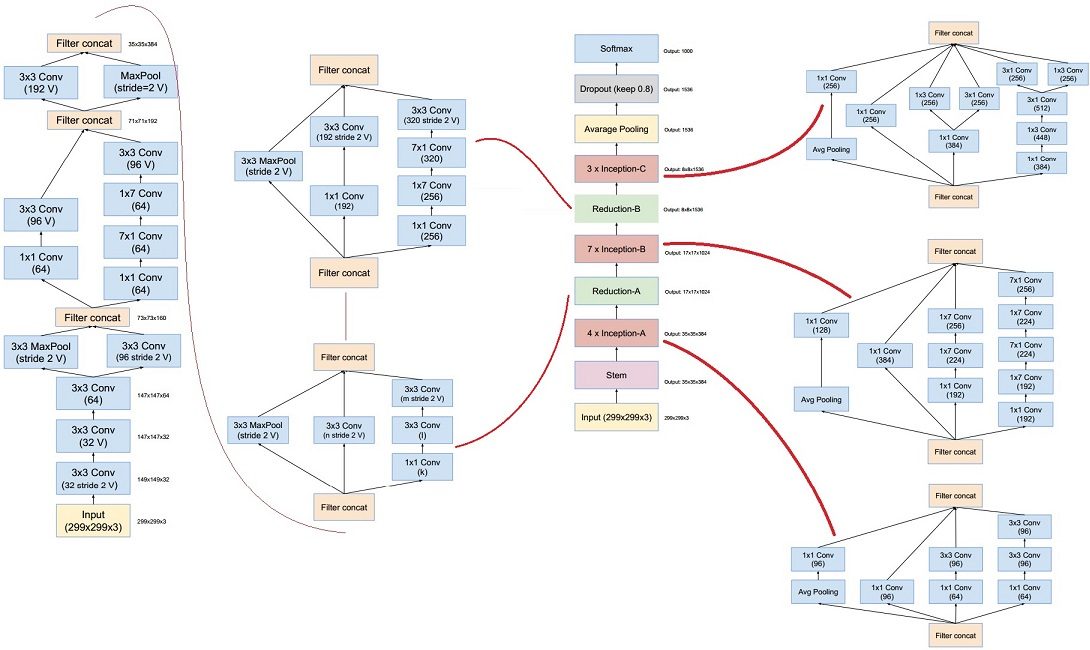
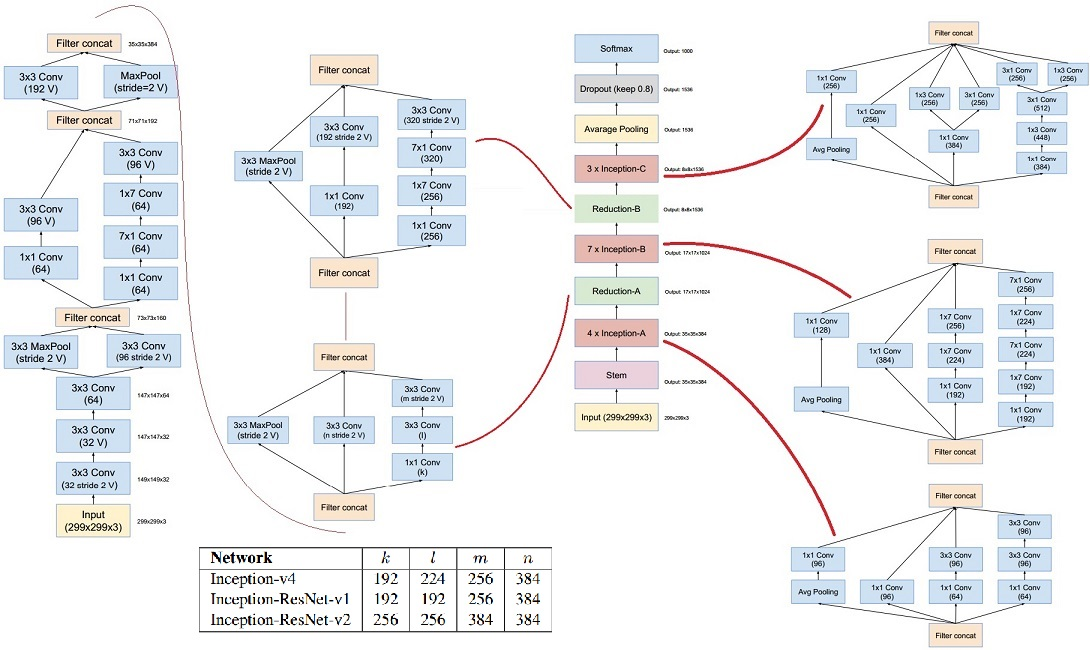
Site updated: 2016-09-30 14:29:22

Changed region(s): [[0.1872, 0.8308, 0.4991, 0.9846]]

diff --git a/2016/08/31/A-reminder-of-algorithms-in-Convolutional-Neural-Networks-and-their-influences-III/index.html b/2016/08/31/A-reminder-of-algorithms-in-Convolutional-Neural-Networks-and-their-influences-III/index.html
@@ -15,10 +15,10 @@
 <meta property="og:image" content="http://yeephycho.github.io/blog_img/deconv.JPG">
 <meta property="og:image" content="http://yeephycho.github.io/blog_img/VGG.JPG">
 <meta property="og:image" content="http://yeephycho.github.io/blog_img/Inception_v4.jpg">
-<meta property="og:image" content="http://yeephycho.github.io/blog_img/deconv.JPG">
+<meta property="og:image" content="http://yeephycho.github.io/blog_img/Inception_ResNet_v2.JPG">
 <meta property="og:image" content="http://yeephycho.github.io/blog_img/license.jpg">
 <meta property="og:image" content="http://yeephycho.github.io/blog_img/APACHE.jpg">
-<meta property="og:updated_time" content="2016-09-30T05:38:55.836Z">
+<meta property="og:updated_time" content="2016-09-30T06:07:29.097Z">
 <meta name="twitter:card" content="summary">
 <meta name="twitter:title" content="A Note to Techniques in Convolutional Neural Networks and Their Influences III (paper summary)">
 <meta name="twitter:description" content="Since we have already got some bases on how CNN works, so this post I prefer to focus more on the ideologies that make these architectures unique and the general technics that can improve the performa">
@@ -231,8 +231,8 @@
 <h2 id="Comments"><a href="#Comments" class="headerlink" title="Comments"></a>Comments</h2><p>From my experience, VGGNet is a structure that is very suitable to verify your idea. It is relativly easy to generalize to different scenario. The drawback of this architecture is that its space compleity is too large. There are many structures that has a smaller size and better performance such as Inceptions.</p>
 <h2 id="Inception-v4-Inception-ResNet"><a href="#Inception-v4-Inception-ResNet" class="headerlink" title="Inception-v4, Inception-ResNet"></a><strong>Inception-v4, Inception-ResNet</strong></h2><p>Related paper is: <a href="http://arxiv.org/pdf/1602.07261v2.pdf" target="_blank" rel="external">Inception-v4, Inception-ResNet and the Impact of Residual Connections on Learning</a>, published on Aug. 2016 by Google.</p>
 <h2 id="Achievement-2"><a href="#Achievement-2" class="headerlink" title="Achievement"></a>Achievement</h2><p>With an ensemble of three residual and one Inception-v4, achieve 3.08% top-5 error on the test set of the 2012 ImageNet classification challenge.</p>
-<h2 id="Inception-v4"><a href="#Inception-v4" class="headerlink" title="Inception-v4"></a>Inception-v4</h2><p>Inception-v4 is a deepr and wider Inception network. Comparing to Inception-v3, it has more inception modules.<div align="center"><br><img src="http://yeephycho.github.io/blog_img/Inception_v4.jpg" alt="Inception-v4 architecture"><br></div></p>
-<h2 id="Inception-ResNet"><a href="#Inception-ResNet" class="headerlink" title="Inception-ResNet"></a>Inception-ResNet</h2><p>Inception-ResNet is a hybird of Inception net and Residual net. Currently, Inception-ResNet-4 is the state-of-the-art network structure on ImageNet dataset.<div align="center"><br><img src="http://yeephycho.github.io/blog_img/deconv.JPG" alt="Inception-ResNet-v2 architecture"><br></div></p>
+<h2 id="Inception-v4"><a href="#Inception-v4" class="headerlink" title="Inception-v4"></a>Inception-v4</h2><p>Inception-v4 is a deepr and wider Inception network. Comparing to Inception-v3, it has more inception modules.<div align="center"><br><img src="http://yeephycho.github.io/blog_img/Inception_v4.jpg" alt="Inception-v4 architecture"><br></div><br>More clear image can be found <a href="http://yeephycho.github.io/blog_img/Inception_v4_hires.jpg">here</a>.</p>
+<h2 id="Inception-ResNet"><a href="#Inception-ResNet" class="headerlink" title="Inception-ResNet"></a>Inception-ResNet</h2><p>Inception-ResNet is a hybird of Inception net and Residual net. Currently, Inception-ResNet-4 is the state-of-the-art network structure on ImageNet dataset.<div align="center"><br><img src="http://yeephycho.github.io/blog_img/Inception_ResNet_v2.JPG" alt="Inception-ResNet-v2 architecture"><br></div></p>
 <p><br></p>
 <h2 id="License"><a href="#License" class="headerlink" title="License"></a>License</h2><div align="center"><br>The content of this blog itself is licensed under the <a href="https://creativecommons.org/licenses/by-sa/4.0/" target="_blank" rel="external">Creative Commons Attribution 4.0 International License</a>.<br><img src="http://yeephycho.github.io/blog_img/license.jpg" alt="CC-BY-SA LICENCES"><br><br>The containing source code (if applicable) and the source code used to format and display that content is licensed under the <a href="http://www.apache.org/licenses/LICENSE-2.0" target="_blank" rel="external">Apache License 2.0</a>.<br><strong>Copyright [2016] [yeephycho]</strong><br>Licensed under the Apache License, Version 2.0 (the “License”);<br>you may not use this file except in compliance with the License.<br>You may obtain a copy of the License at<br><a href="http://www.apache.org/licenses/LICENSE-2.0" target="_blank" rel="external">Apache License 2.0</a><br>Unless required by applicable law or agreed to in writing, software<br>distributed under the License is distributed on an “AS IS” BASIS,<br>WITHOUT WARRANTIES OR CONDITIONS OF ANY KIND, either<br>express or implied. See the License for the specific language<br>governing permissions and limitations under the License.<br><img src="http://yeephycho.github.io/blog_img/APACHE.jpg" alt="APACHE LICENCES"><br></div>
       
